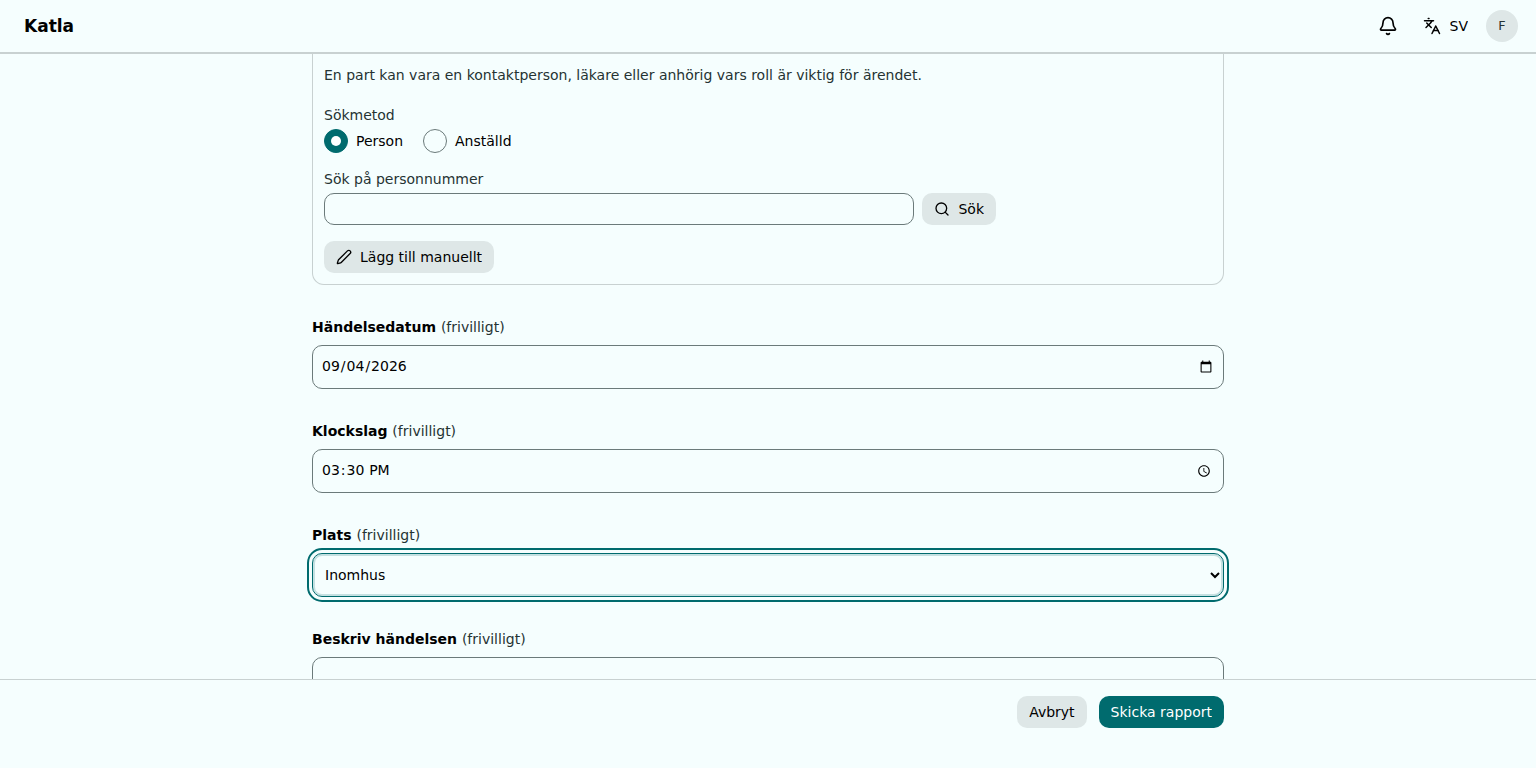
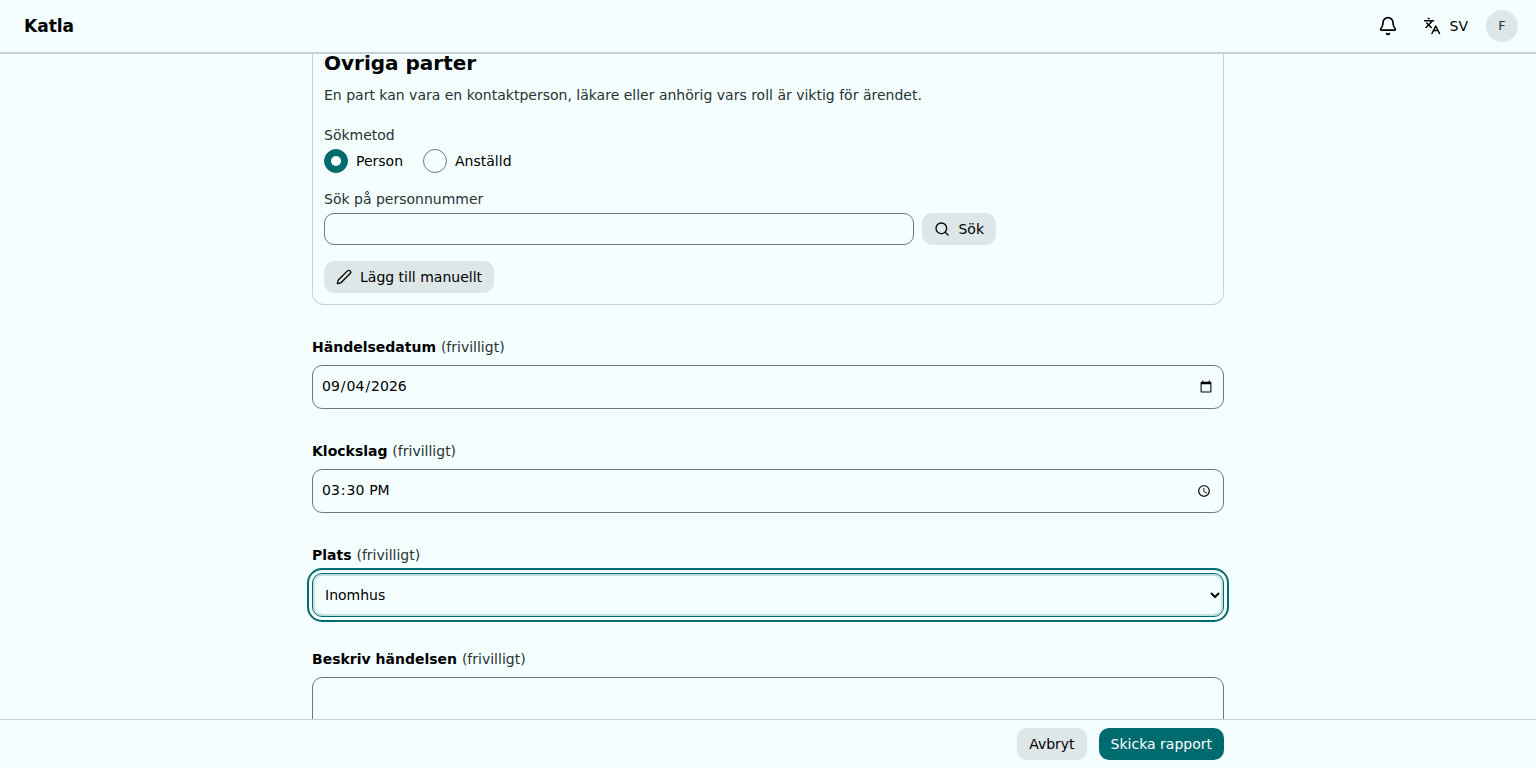
docs: refresh compact report footer evidence

diff --git a/docs/astryx-evaluation.md b/docs/astryx-evaluation.md
@@ -13,7 +13,7 @@ Utvecklingen görs i isolerade git-worktrees för att hålla rättningarna åtsk
 | Appskal | En gemensam `AppHeader` med Astryx `TopNav`, inuti `AppShell`. Samma kontrollordning på mobil och desktop. Biblioteket äger huvudlandmärke och hoppa-till-innehåll-länk. Headern mäter cirka 54px i CI-bilderna; testgränsen är 72px på båda bredderna. |
 | Översikt | Statusfilter är synliga ovanför samlingen. Separata mobilheaders, helskärmsmeny, sidebar och viewport-context är borttagna. `useOverviewErrands` äger hämtningen för båda presentationerna och totalen kommer från samma listsvar. Sidomenyns separata räkneanrop och count-store är borttagna. |
 | Rapporter | Kompakta `ListItem`-rader på mobil, semantisk `Table` på desktop. En riktig länk per rapport. Desktop behåller sortering, sidstorlek, radhöjd och paginering; mobil behåller läs in fler. |
-| Ärende och registrering | Ärendenummer och status finns vid sidrubriken. `TabList` äger länkar mellan innehållsvyer. Registrering och utkast använder `LayoutFooter` utanför det skrollbara formuläret även på desktop. Åtgärdsraden tar egen plats och täcker inte sista fältet. Mobilguiden använder samma layoutmodell; nästa steg får rubrikfokus. |
+| Ärende och registrering | Ärendenummer och status finns vid sidrubriken. `TabList` äger länkar mellan innehållsvyer. Registrering och utkast använder `LayoutFooter` utanför det skrollbara formuläret även på desktop. Åtgärdsraden tar egen plats och täcker inte sista fältet. Knappgrupperna äger radens kompakta padding; safe-area-regeln lägger bara till enhetens faktiska skyddszon, utan extra bottenmarginal på desktop. I CI-bilderna är raden 49px på desktop (tidigare 89px) och 53px på mobil (tidigare 85px), vid en knapprad utan extra safe area. Knapparnas storlek är oförändrad. Mobilguiden använder samma layoutmodell; nästa steg får rubrikfokus. |
 | Personer | `StakeholderRow` ersätter nästlade personkort med Astryx `ListItem`. Namn och kontaktuppgifter hålls ihop, borttagning och manuellt tillägg använder synliga sekundärknappar. Sökfältets bredd är stabil under inmatning; efter träff finns en textmärkt återställning. |
 | Notifieringar | Astryx `Dialog` och `Layout` skiljer fast rubrik/stängknapp från skrollande `ListItem`-rader. Beskrivning, ärendelänk, avsändare och tid visas kompakt utan separat upprepad händelserad. Befintlig sortering, kvittering och felhantering behålls. |
 | Meddelanden | Konversation före redigerare, med genväg till skrivfältet. Formatering öppnas vid behov med `Collapsible`. Uppdatering och formateringsmeny behåller oskickad text. Filbilagor och sändningslås finns kvar. |
@@ -52,15 +52,15 @@ Komponentbiblioteket är låst till 0.5.2. En uppgradering kräver regenererat t
 
 ## Verifiering
 
-Kod och bilder verifierade på `0484672d97a4dcf6aac59379e197cf7772ec5441`, den 7 september 2026:
+Kod och bilder verifierade på `90fca2e397813ee5b8d299793086a8647120fa78`, den 7 september 2026:
 
 | Kontroll | Resultat |
 | --- | --- |
-| [Frontend CI](https://github.com/Sundsvallskommun/web-app-katla-sm/actions/runs/34140045864) | Lint, format, typkontroll och 323 enhetstester godkända. |
-| Chromium mot standalone-paketet | 99/99 scenarier godkända, inga omkörningar, cirka 1,9 minuter. |
+| [Frontend CI](https://github.com/Sundsvallskommun/web-app-katla-sm/actions/runs/34143143177) | Lint, format, typkontroll och 323 enhetstester godkända. |
+| Chromium mot standalone-paketet | 99/99 scenarier godkända, inga omkörningar, cirka 1,7 minuter. |
 | Axe | 16 scanningar, inga rapporterade regelbrott eller JavaScript-fel. |
 | Backend CI | Lint, format, typkontroll och 167 tester godkända; 4 befintliga tester överhoppade. |
-| [RHEL 8.10](https://github.com/Sundsvallskommun/web-app-katla-sm/actions/runs/34140045902) | Frontend- och backend-byggen samt standalone-bildbehandling godkända. |
+| [RHEL 8.10](https://github.com/Sundsvallskommun/web-app-katla-sm/actions/runs/34143143045) | Frontend- och backend-byggen samt standalone-bildbehandling godkända. |
 
 Bildgalleriets 32 bilder av vyer, teman, laddning, formulär och notifieringar kommer från samma kodcommit och CI-körning. `incomplete` omfattar `aria-valid-attr-value` i 16 scanningar och `color-contrast` i 6; de räknas inte som godkända kontroller. Det gäller bland annat stängda popup-kontrollers referenser och kontrast som motorn inte kunde avgöra. Se fullständiga noder i audit-filen.
 

diff --git a/docs/astryx-mobile-ux.md b/docs/astryx-mobile-ux.md
@@ -13,7 +13,7 @@ The first migration replaced controls but kept separate mobile headers, a fullsc
 | Conversation before composer | The latest replies appear before the writing controls. A named anchor goes straight to the editor. Rich formatting and attachments are retained. | `ErrandMessages`, existing `MessageComposer` and Quill owner |
 | Formatting is disclosed on demand | The initial editor occupies less height. Expanding/collapsing the toolbar never unmounts the editor or its form state. | Astryx `Collapsible` inside `RichTextEditor` |
 | Skeletons belong to their views | Placeholders match rows, details and messages. There is no generic skeleton factory with layout variants to maintain. One surrounding status announces loading; decorative shapes are hidden from assistive technology. Errors take precedence over loading. Refresh/load-more retain existing results. | Three small view-specific skeleton components; table loading rows stay in the table |
-| Native shell and layout slots | Astryx owns the main landmark, skip link and scroll regions. Registration and draft actions use `LayoutFooter` outside the scrolling form on desktop, matching the mobile wizard. The footer occupies real layout space and needs no scroll listeners or fixed-position offsets. Token-based scroll padding reserves room for the complete focus outline when tabbing to a field, following [CSS scroll-padding](https://www.w3.org/TR/css-scroll-snap-1/#scroll-padding). | `AppShell`, `Layout`, `ErrandLayoutContent`, `MobileWizard` |
+| Native shell and layout slots | Astryx owns the main landmark, skip link and scroll regions. Registration and draft actions use `LayoutFooter` outside the scrolling form on desktop, matching the mobile wizard. The footer occupies real layout space and needs no scroll listeners or fixed-position offsets. Its padding is zero; the existing action stacks own horizontal alignment and spacing step 2 above/below the buttons. Safe-area CSS adds only the actual device inset, removing the previously duplicated bottom spacing without shrinking button targets. Token-based scroll padding reserves room for the complete focus outline when tabbing to a field, following [CSS scroll-padding](https://www.w3.org/TR/css-scroll-snap-1/#scroll-padding). | `AppShell`, `Layout`, `ErrandLayoutContent`, `MobileWizard` |
 | Stable person search and compact people | Typing never inserts another button beside the field. A successful search replaces Search with a labelled reset action; editing a query clears its stale search error. Name and contact details share one column in `ListItem`, with a visible secondary remove button. The former card and its unused extra-content path are removed. | `StakeholderList`, `StakeholderRow` |
 | Compact notification history | `Dialog` with `Layout` keeps the padded header and close button outside the scrolling history. `ListItem` delegates row clicks to the existing native link; the sender and time share a wrapping metadata line. The API description appears once, with subtype as fallback. The row owns a single keyboard focus ring. Existing sorting, acknowledgement and error handling remain. Skeleton rows represent initial loading. | `NotificationsWrapper`, `NotificationItem`, existing notification store/service |
 | One field focus owner | The app's fallback focus rule lives in the reset layer so Astryx can suppress an inner input outline and paint the rounded wrapper. RJSF native controls retain their own focus ring and block layout, preserving native picker placement. The textarea reveals its full control on focus because native caret scrolling alone can leave its bottom behind the action footer; the real Tab flow is covered in Playwright. | `katla.css`, existing RJSF widget stylesheet and `TextareaWidget` |
